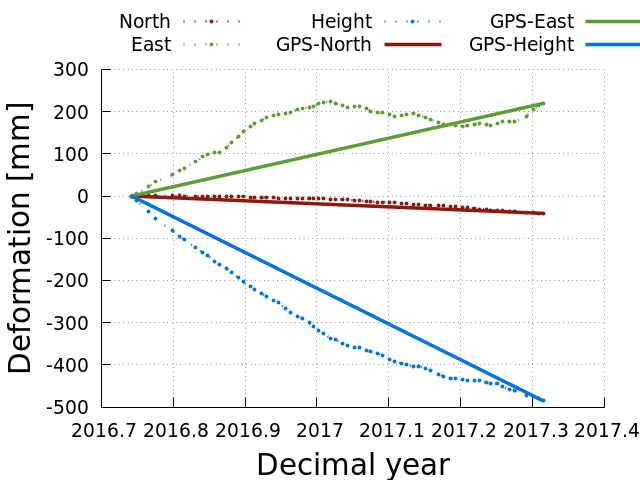
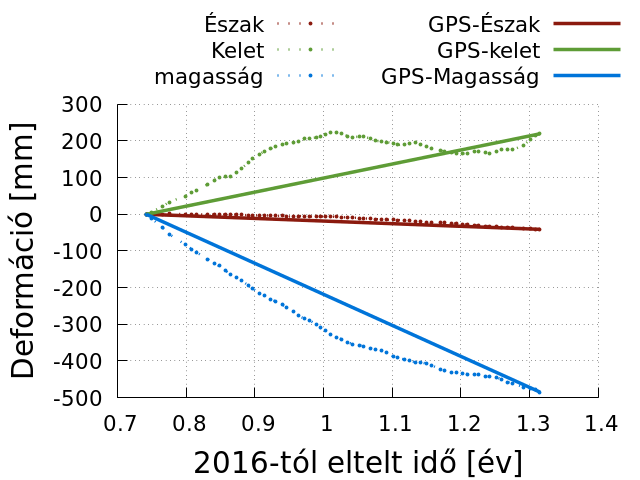
Rewrote gpp macros

diff --git a/data/isign/plot_refl.py b/data/isign/plot_refl.py
@@ -71,14 +71,14 @@ def plot(*stations, ref=None, rootdir=None, outdir=None, fontsize=15, term="eps"
     
     colors = gp.nicer()
     
-    gp.set(xlabel="'Decimal year' font ',22'", key=keypos)
+    gp.set(xlabel="'2016-tól eltelt idő [év]' font ',22'", key=keypos)
     
     for station in stations:
         filename = pjoin(rootdir, "{}-{}_s_interpol.kout".format(station, ref))
         
         los, gnss = parse_kout(filename)
         
-        gp.set(ylabel="'Deformation [mm]' font ',22'")
+        gp.set(ylabel="'Deformáció [mm]' font ',22'")
         style_kalman(colors)
         
         with tmp("w", delete=False) as f1, tmp("w", delete=False) as f2:
@@ -86,17 +86,17 @@ def plot(*stations, ref=None, rootdir=None, outdir=None, fontsize=15, term="eps"
             f1.write(los)
             f2.write(gnss)
             
-            gp.output(pjoin(outdir, "%s-%s_kalman.pdf" % (station, ref)),
+            gp.output(pjoin(outdir, "%s-%s_kalman.png" % (station, ref)),
                       term=term, fontsize=fontsize)
                       
             #gp.ranges(y=gnss_range)
     
-            gp.call("plot '{name1}' u 2:3 title 'North'    with lp ls 1,"
-                    "     '{name1}' u 2:4 title 'East'    with lp ls 2,"
-                    "     '{name1}' u 2:5 title 'Height' with lp ls 3,"
-                    "     '{name2}' u 2:3 title 'GPS-North'     with lp ls 4,"
-                    "     '{name2}' u 2:4 title 'GPS-East'     with lp ls 5,"
-                    "     '{name2}' u 2:5 title 'GPS-Height'  with lp ls 6"
+            gp.call("plot '{name1}' u ($2-2016):3 title 'Észak'    with lp ls 1,"
+                    "     '{name1}' u ($2-2016):4 title 'Kelet'    with lp ls 2,"
+                    "     '{name1}' u ($2-2016):5 title 'magasság' with lp ls 3,"
+                    "     '{name2}' u ($2-2016):3 title 'GPS-Észak'     with lp ls 4,"
+                    "     '{name2}' u ($2-2016):4 title 'GPS-kelet'     with lp ls 5,"
+                    "     '{name2}' u ($2-2016):5 title 'GPS-Magasság'  with lp ls 6"
                     .format(name1=f1.name, name2=f2.name))
         
         #asc_g = pjoin(rootdir, "%s-%s_g_asc.los" % (station, ref))
@@ -191,7 +191,7 @@ def plot_kalman(*stations, ref=None, prefix="", rootdir=None, outdir=None, fonts
         
 def main():
     
-    term = "pdfcairo"
+    term = "pngcairo"
     
     outdir = "/home/istvan/Dokumentumok/texfiles/images"
     root = "/home/istvan/Dokumentumok/texfiles/data/isign"
